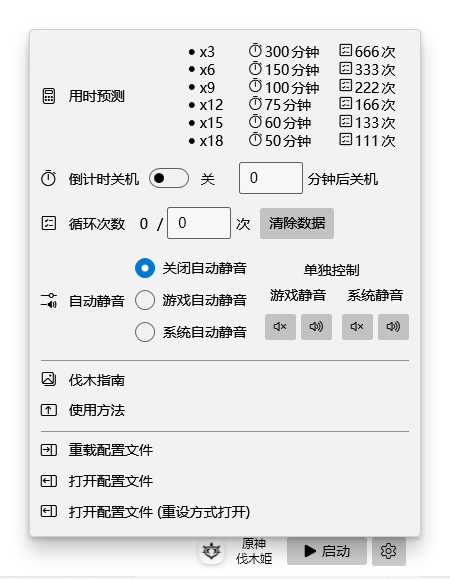
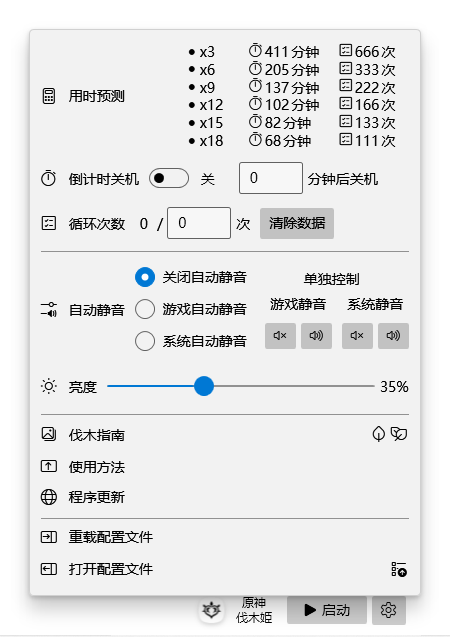
Optimized UI layout

diff --git a/src/GenshinWoodmen/Views/MainWindow.xaml b/src/GenshinWoodmen/Views/MainWindow.xaml
@@ -38,16 +38,23 @@
         </Style>
     </Window.Style>
     <Window.ContextMenu>
-        <ContextMenu Padding="0,5" MinWidth="140">
-            <MenuItem Header="{DynamicResource WoodGuide1}" Command="{Binding UsageImageSingleCommand}">
+        <ContextMenu Padding="0,5" MinWidth="160">
+            <MenuItem Command="{Binding UsageImageCommand}">
                 <MenuItem.Icon>
                     <TextBlock Text="&#xe8b9;" FontSize="8" FontFamily="{StaticResource SegoeFluent}"/>
                 </MenuItem.Icon>
-            </MenuItem>
-            <MenuItem Header="{DynamicResource WoodGuide2}" Command="{Binding UsageImageMultiCommand}">
-                <MenuItem.Icon>
-                    <TextBlock Text="&#xe8b9;" FontSize="8" FontFamily="{StaticResource SegoeFluent}"/>
-                </MenuItem.Icon>
+                <MenuItem.Header>
+                    <Grid>
+                        <Grid.ColumnDefinitions>
+                            <ColumnDefinition Width="*"/>
+                            <ColumnDefinition Width="auto"/>
+                            <ColumnDefinition Width="auto"/>
+                        </Grid.ColumnDefinitions>
+                        <TextBlock Grid.Column="0" Text="{DynamicResource WoodGuide}" VerticalAlignment="Center"/>
+                        <Button Grid.Column="1" ToolTip="{DynamicResource WoodGuide1}" Background="Transparent" Command="{Binding UsageImageSingleCommand}" Margin="0" FocusVisualStyle="{x:Null}" HorizontalAlignment="Right" Content="&#xe8be;" FontSize="16" Padding="1" FontFamily="{StaticResource SegoeFluent}"/>
+                        <Button Grid.Column="2" ToolTip="{DynamicResource WoodGuide2}" Background="Transparent" Command="{Binding UsageImageMultiCommand}" Margin="0" FocusVisualStyle="{x:Null}" HorizontalAlignment="Right" Content="&#xec0a;" FontSize="16" Padding="1" FontFamily="{StaticResource SegoeFluent}"/>
+                    </Grid>
+                </MenuItem.Header>
             </MenuItem>
             <MenuItem Header="{DynamicResource Usage}" Command="{Binding UsageCommand}">
                 <MenuItem.ToolTip>
@@ -332,15 +339,22 @@
                                 </MenuItem.Header>
                             </MenuItem>
                             <Separator/>
-                            <MenuItem Header="{DynamicResource WoodGuide1}" Command="{Binding UsageImageSingleCommand}">
+                            <MenuItem Command="{Binding UsageImageCommand}">
                                 <MenuItem.Icon>
                                     <TextBlock Text="&#xe8b9;" FontSize="8" FontFamily="{StaticResource SegoeFluent}"/>
                                 </MenuItem.Icon>
-                            </MenuItem>
-                            <MenuItem Header="{DynamicResource WoodGuide2}" Command="{Binding UsageImageMultiCommand}">
-                                <MenuItem.Icon>
-                                    <TextBlock Text="&#xe8b9;" FontSize="8" FontFamily="{StaticResource SegoeFluent}"/>
-                                </MenuItem.Icon>
+                                <MenuItem.Header>
+                                    <Grid>
+                                        <Grid.ColumnDefinitions>
+                                            <ColumnDefinition Width="*"/>
+                                            <ColumnDefinition Width="auto"/>
+                                            <ColumnDefinition Width="auto"/>
+                                        </Grid.ColumnDefinitions>
+                                        <TextBlock Grid.Column="0" Text="{DynamicResource WoodGuide}" VerticalAlignment="Center"/>
+                                        <Button Grid.Column="1" ToolTip="{DynamicResource WoodGuide1}" Background="Transparent" Command="{Binding UsageImageSingleCommand}" Margin="0" FocusVisualStyle="{x:Null}" HorizontalAlignment="Right" Content="&#xe8be;" FontSize="16" Padding="1" FontFamily="{StaticResource SegoeFluent}"/>
+                                        <Button Grid.Column="2" ToolTip="{DynamicResource WoodGuide2}" Background="Transparent" Command="{Binding UsageImageMultiCommand}" Margin="0" FocusVisualStyle="{x:Null}" HorizontalAlignment="Right" Content="&#xec0a;" FontSize="16" Padding="1" FontFamily="{StaticResource SegoeFluent}"/>
+                                    </Grid>
+                                </MenuItem.Header>
                             </MenuItem>
                             <MenuItem Header="{DynamicResource Usage}" Command="{Binding UsageCommand}">
                                 <MenuItem.ToolTip>
@@ -368,25 +382,21 @@
                                     <TextBlock Text="&#xe89f;" FontSize="8" FontFamily="{StaticResource SegoeFluent}"/>
                                 </MenuItem.Icon>
                             </MenuItem>
-                            <MenuItem Header="{DynamicResource OpenConfigFile}" Command="{Binding ConfigOpenCommand}">
-                                <MenuItem.ToolTip>
-                                    <TextBlock>
-                                        <Run Text="{DynamicResource OpenConfigFileDetail}"/>
-                                    </TextBlock>
-                                </MenuItem.ToolTip>
+                            <MenuItem Command="{Binding ConfigOpenCommand}" ToolTip="{DynamicResource OpenConfigFileDetail}">
                                 <MenuItem.Icon>
                                     <TextBlock Text="&#xe8a0;" FontSize="8" FontFamily="{StaticResource SegoeFluent}"/>
                                 </MenuItem.Icon>
-                            </MenuItem>
-                            <MenuItem Header="{DynamicResource OpenWithConfigFile}" Command="{Binding ConfigOpenWithCommand}">
-                                <MenuItem.ToolTip>
-                                    <TextBlock>
-                                        <Run Text="{DynamicResource OpenConfigFileDetail}"/>
-                                    </TextBlock>
-                                </MenuItem.ToolTip>
-                                <MenuItem.Icon>
-                                    <TextBlock Text="&#xe8a0;" FontSize="8" FontFamily="{StaticResource SegoeFluent}"/>
-                                </MenuItem.Icon>
+                                <MenuItem.Header>
+                                    <Grid>
+                                        <Grid.ColumnDefinitions>
+                                            <ColumnDefinition Width="*"/>
+                                            <ColumnDefinition Width="auto"/>
+                                            <ColumnDefinition Width="auto"/>
+                                        </Grid.ColumnDefinitions>
+                                        <TextBlock Grid.Column="0" Text="{DynamicResource OpenConfigFile}" VerticalAlignment="Center"/>
+                                        <Button Grid.Column="1" ToolTip="{DynamicResource OpenWithConfigFile}" Background="Transparent" Command="{Binding ConfigOpenWithCommand}" Margin="0" FocusVisualStyle="{x:Null}" HorizontalAlignment="Right" Content="&#xe7ac;" FontSize="16" Padding="1" FontFamily="{StaticResource SegoeFluent}"/>
+                                    </Grid>
+                                </MenuItem.Header>
                             </MenuItem>
                         </ContextMenu>
                     </Button.ContextMenu>

diff --git a/src/GenshinWoodmen/Resources/Languages/jp.xaml b/src/GenshinWoodmen/Resources/Languages/jp.xaml
@@ -7,9 +7,10 @@
     <s:String x:Key="ButtonStop">ｽﾄｯﾌﾟ</s:String>
     <s:String x:Key="ButtonOK">OK</s:String>
     <s:String x:Key="Usage">使い方</s:String>
-    <s:String x:Key="UsageMessage" xml:space="preserve">〔アナウンスメント〕&#10;本プログラムはオープンソース且つネットワークを使いません。もし正常にキーボードなどのシミュレーションが出来ない場合は、本プログラムをアンチウィルスソフトにホワイトリストに追加し、もしくはアンチウィルスソフトを終了後にお使いください。&#10;&#10;〔ステップ〕&#10;1. 原神を起動；&#10;2. ゲーム内の解像度設定を1440x900に変更；&#10;3. 手動的に伐採ポイントに移動、「伐採ガイド」にはお勧めポイントが描かれている；&#10;3. 「王樹の加護」Zキー便利アイテムを装備、このアイテムはスメールでの評判レベル３で獲得できる；&#10;5. 「スタート」をクリックして始まる、もう一度「ストップ」をクリックしたら停止する（デフォルトキーF11）。&#10;&#10;〔テクニック〕&#10;バーバラのソロパーティーを使うことと音声をミュートすること。スタックしてもバーバラの通常攻撃はキャラの位置を変えることはない、ミュートはよりスムーズなリロードが確保できる。&#10;&#10;〔その他の説明〕&#10;種類毎に木材の一日の獲得上限は2000アイテムまで、自動電源オフもしくはループ回数機能を使用することをお勧めする、またあなたのデバイス反応速度に応じて遅延パラメタを調整できる。</s:String>
+    <s:String x:Key="UsageMessage" xml:space="preserve">〔アナウンスメント〕&#10;本プログラムはオープンソース且つネットワークを使いません。もし正常にキーボードなどのシミュレーションが出来ない場合は、本プログラムをアンチウィルスソフトにホワイトリストに追加し、もしくはアンチウィルスソフトを終了後にお使いください。&#10;&#10;〔ステップ〕&#10;1. 原神を起動；&#10;2. 手動的に伐採ポイントに移動、「伐採ガイド」にはお勧めポイントが描かれている；&#10;3. 「王樹の加護」Zキー便利アイテムを装備、このアイテムはスメールでの評判レベル３で獲得できる；&#10;4. 「スタート」をクリックして始まる、もう一度「ストップ」をクリックしたら停止する（デフォルトキーF11）。&#10;&#10;〔テクニック〕&#10;バーバラのソロパーティーを使うことと音声をミュートすること。スタックしてもバーバラの通常攻撃はキャラの位置を変えることはない、ミュートはよりスムーズなリロードが確保できる。&#10;&#10;〔その他の説明〕&#10;種類毎に木材の一日の獲得上限は2000アイテムまで、自動電源オフもしくはループ回数機能を使用することをお勧めする、またあなたのデバイス反応速度に応じて遅延パラメタを調整できる。</s:String>
     <s:String x:Key="TopMost">最上位に表示</s:String>
     <s:String x:Key="Exit">終了</s:String>
+    <s:String x:Key="WoodGuide">伐採ガイド</s:String>
     <s:String x:Key="WoodGuide1">伐採ガイド (お薦めのシングル穴場)</s:String>
     <s:String x:Key="WoodGuide2">伐採ガイド (お薦めのコンビ穴場)</s:String>
     <s:String x:Key="OpenConfigFile">配置ファイルを開く</s:String>
@@ -46,7 +47,7 @@
     <s:String x:Key="MuteGame">ゲーム</s:String>
     <s:String x:Key="MuteSystem">システム</s:String>
     <s:String x:Key="SingleControl">制御パネル</s:String>
-    <s:String x:Key="LaunchGame1440x900">ケーム起動 (1440x900)</s:String>
+    <s:String x:Key="LaunchGame">ケーム起動</s:String>
     <s:String x:Key="Language">言語</s:String>
     <s:String x:Key="Brightness">明度</s:String>
     <s:String x:Key="Cancel">キャンセル</s:String>

diff --git a/src/GenshinWoodmen/App.xaml b/src/GenshinWoodmen/App.xaml
@@ -31,18 +31,30 @@
                     <vm:NotifyIconViewModel/>
                 </tb:TaskbarIcon.DataContext>
                 <tb:TaskbarIcon.ContextMenu>
-                    <ContextMenu Padding="0,5" MinWidth="140">
-                        <MenuItem Header="{DynamicResource WoodGuide1}" Command="{Binding UsageImageSingleCommand}">
+                    <ContextMenu Padding="0,5" MinWidth="160">
+                        <MenuItem Command="{Binding UsageImageCommand}">
                             <MenuItem.Icon>
                                 <TextBlock Text="&#xe8b9;" FontSize="8" FontFamily="{StaticResource SegoeFluent}"/>
                             </MenuItem.Icon>
-                        </MenuItem>
-                        <MenuItem Header="{DynamicResource WoodGuide2}" Command="{Binding UsageImageMultiCommand}">
-                            <MenuItem.Icon>
-                                <TextBlock Text="&#xe8b9;" FontSize="8" FontFamily="{StaticResource SegoeFluent}"/>
-                            </MenuItem.Icon>
+                            <MenuItem.Header>
+                                <Grid>
+                                    <Grid.ColumnDefinitions>
+                                        <ColumnDefinition Width="*"/>
+                                        <ColumnDefinition Width="auto"/>
+                                        <ColumnDefinition Width="auto"/>
+                                    </Grid.ColumnDefinitions>
+                                    <TextBlock Grid.Column="0" Text="{DynamicResource WoodGuide}" VerticalAlignment="Center"/>
+                                    <Button Grid.Column="1" ToolTip="{DynamicResource WoodGuide1}" Background="Transparent" Command="{Binding UsageImageSingleCommand}" Margin="0" FocusVisualStyle="{x:Null}" HorizontalAlignment="Right" Content="&#xe8be;" FontSize="16" Padding="1" FontFamily="{StaticResource SegoeFluent}"/>
+                                    <Button Grid.Column="2" ToolTip="{DynamicResource WoodGuide2}" Background="Transparent" Command="{Binding UsageImageMultiCommand}" Margin="0" FocusVisualStyle="{x:Null}" HorizontalAlignment="Right" Content="&#xec0a;" FontSize="16" Padding="1" FontFamily="{StaticResource SegoeFluent}"/>
+                                </Grid>
+                            </MenuItem.Header>
                         </MenuItem>
                         <MenuItem Header="{DynamicResource Usage}" Command="{Binding UsageCommand}">
+                            <MenuItem.ToolTip>
+                                <TextBlock>
+                        <Run Text="{DynamicResource UsageDetail}"/>
+                                </TextBlock>
+                            </MenuItem.ToolTip>
                             <MenuItem.Icon>
                                 <TextBlock Text="&#xf71c;" FontSize="8" FontFamily="{StaticResource SegoeFluent}"/>
                             </MenuItem.Icon>
@@ -53,7 +65,7 @@
                             </MenuItem.Icon>
                         </MenuItem>
                         <Separator/>
-                        <MenuItem Header="{DynamicResource LaunchGame1440x900}" Command="{Binding LaunchGame1440x900Command}">
+                        <MenuItem Header="{DynamicResource LaunchGame}" Command="{Binding LaunchGameCommand}">
                             <MenuItem.Icon>
                                 <TextBlock Text="&#xe7fc;" FontSize="8" FontFamily="{StaticResource SegoeFluent}"/>
                             </MenuItem.Icon>

diff --git a/src/GenshinWoodmen/Resources/Languages/en-us.xaml b/src/GenshinWoodmen/Resources/Languages/en-us.xaml
@@ -7,9 +7,10 @@
     <s:String x:Key="ButtonStop">Stop</s:String>
     <s:String x:Key="ButtonOK">OK</s:String>
     <s:String x:Key="Usage">Usage</s:String>
-    <s:String x:Key="UsageMessage" xml:space="preserve">[Announcement]&#10;This program is open source and running without network. If you can't auto simulate the key, please try to add this program to the anti-virus software white list, or turn off anti-virus software firstly.&#10;&#10;[Steps]&#10;1. Startup Genshin Impact;&#10;2. Change game resolution to 1440x900;&#10;3. Goto the wood point, recommended from "Wood Guide".&#10;4. Ready your Key Z gadget, named "The Boon of the Elder Tree", got from Sumeru City Reputation Level 3;&#10;5. Click "Start", and you can click again to "Stop" (default shortcut key is F11);&#10;&#10;[Techniques]&#10;To use Barbara Solo party and mute. Barbara's normal attack will not move character's location, even if there is stuck. Mute can stabilize the loading speed.&#10;&#10;[Others]&#10;The max number of each kind of wood is 2000 per day. It's recommended to use the function of auto shutdown or auto stop when the specified number of times is reached. You can adjust the delay parameters according to the response speed of your own equipment.</s:String>
+    <s:String x:Key="UsageMessage" xml:space="preserve">[Announcement]&#10;This program is open source and running without network. If you can't auto simulate the key, please try to add this program to the anti-virus software white list, or turn off anti-virus software firstly.&#10;&#10;[Steps]&#10;1. Startup Genshin Impact;&#10;2. Goto the wood point, recommended from "Wood Guide".&#10;3. Ready your Key Z gadget, named "The Boon of the Elder Tree", obtained from Sumeru City Reputation Level 3;&#10;4. Click "Start", and you can click again to "Stop" (default shortcut key is F11);&#10;&#10;[Techniques]&#10;To use Barbara Solo party and mute. Barbara's normal attack will not move character's location, even if there is stuck. Mute can stabilize the loading speed.&#10;&#10;[Others]&#10;The max number of each kind of wood is 2000 per day. It's recommended to use the function of auto shutdown or auto stop when the specified number of times is reached. You can adjust the delay parameters according to the response speed of your own equipment.</s:String>
     <s:String x:Key="TopMost">Top Most</s:String>
     <s:String x:Key="Exit">Exit</s:String>
+    <s:String x:Key="WoodGuide">Wood Guide</s:String>
     <s:String x:Key="WoodGuide1">Wood Guide (Recommended Single Point)</s:String>
     <s:String x:Key="WoodGuide2">Wood Guide (Recommended Multi Point)</s:String>
     <s:String x:Key="OpenConfigFile">Open Config File</s:String>
@@ -46,7 +47,7 @@
     <s:String x:Key="MuteGame">Mute Game</s:String>
     <s:String x:Key="MuteSystem">Mute System</s:String>
     <s:String x:Key="SingleControl">Control Panel</s:String>
-    <s:String x:Key="LaunchGame1440x900">Launch Game (1440x900)</s:String>
+    <s:String x:Key="LaunchGame">Launch Game</s:String>
     <s:String x:Key="Language">Language</s:String>
     <s:String x:Key="Brightness">Brightness</s:String>
     <s:String x:Key="Cancel">Cancel</s:String>

diff --git a/src/GenshinWoodmen/Resources/Languages/zh-cn.xaml b/src/GenshinWoodmen/Resources/Languages/zh-cn.xaml
@@ -7,9 +7,10 @@
     <s:String x:Key="ButtonStop">停止</s:String>
     <s:String x:Key="ButtonOK">好的</s:String>
     <s:String x:Key="Usage">使用方法</s:String>
-    <s:String x:Key="UsageMessage" xml:space="preserve">【声明】&#10;本程序开源且不联网。如果无法正常自动模拟按键，请尝试将本程序添加至杀软白名单，或关闭杀软后使用。&#10;&#10;&#10;【操作步骤】&#10;1. 启动原神；&#10;2. 游戏设置里调整分辨率为1440x900；&#10;3. 手动走到伐木点，可点击菜单栏[伐木指南]参考伐木点；&#10;4. 装备好「王树瑞佑」Z键小道具，这是须弥3级声望赠送道具；&#10;5. 点击启动开始挂机，再次点击可停止（默认快捷键F11）；&#10;&#10;&#10;【小技巧】&#10;可以使用芭芭拉单人队，并且关闭游戏声音。芭芭拉平A不会位移，就算出现卡顿也不会移动导致错位，关闭声音稳定加载速度。&#10;&#10;&#10;【其他说明】&#10;每日每种木材的获取上限为2000个，建议使用自动关机或达到指定次数自动停止功能。可根据自己设备响应速度自己调整延时参数。</s:String>
+    <s:String x:Key="UsageMessage" xml:space="preserve">【声明】&#10;本程序开源且不联网。如果无法正常自动模拟按键，请尝试将本程序添加至杀软白名单，或关闭杀软后使用。&#10;&#10;&#10;【操作步骤】&#10;1. 启动原神；&#10;2. 手动走到伐木点，可点击菜单栏[伐木指南]参考伐木点；&#10;3. 装备好「王树瑞佑」Z键小道具，这是须弥3级声望赠送道具；&#10;4. 点击启动开始挂机，再次点击可停止（默认快捷键F11）；&#10;&#10;&#10;【小技巧】&#10;可以使用芭芭拉单人队，并且关闭游戏声音。芭芭拉平A不会位移，就算出现卡顿也不会移动导致错位，关闭声音稳定加载速度。&#10;&#10;&#10;【其他说明】&#10;每日每种木材的获取上限为2000个，建议使用自动关机或达到指定次数自动停止功能。可根据自己设备响应速度自己调整延时参数。</s:String>
     <s:String x:Key="TopMost">顶层显示</s:String>
     <s:String x:Key="Exit">退出</s:String>
+    <s:String x:Key="WoodGuide">伐木指南</s:String>
     <s:String x:Key="WoodGuide1">伐木指南 (单点推荐)</s:String>
     <s:String x:Key="WoodGuide2">伐木指南 (组合推荐)</s:String>
     <s:String x:Key="OpenConfigFile">打开配置文件</s:String>
@@ -46,7 +47,7 @@
     <s:String x:Key="MuteGame">游戏静音</s:String>
     <s:String x:Key="MuteSystem">系统静音</s:String>
     <s:String x:Key="SingleControl">单独控制</s:String>
-    <s:String x:Key="LaunchGame1440x900">启动游戏 (1440x900)</s:String>
+    <s:String x:Key="LaunchGame">启动游戏</s:String>
     <s:String x:Key="Language">语言</s:String>
     <s:String x:Key="Brightness">亮度</s:String>
     <s:String x:Key="Cancel">取消</s:String>

diff --git a/src/GenshinWoodmen/Core/LaunchCtrl.cs b/src/GenshinWoodmen/Core/LaunchCtrl.cs
@@ -150,9 +150,9 @@ namespace GenshinWoodmen.Core
 
         internal class LaunchParameter
         {
-            public bool? IsFullScreen { get; set; } = false;
-            public int? ScreenWidth { get; set; } = 1440;
-            public int? ScreenHeight { get; set; } = 900;
+            public bool? IsFullScreen { get; set; } = null;
+            public int? ScreenWidth { get; set; } = null;
+            public int? ScreenHeight { get; set; } = null;
 
             public override string ToString()
             {
@@ -160,15 +160,15 @@ namespace GenshinWoodmen.Core
 
                 if (IsFullScreen != null)
                 {
-                    sb.Append("-screen-fullscreen").Append(" ").Append(IsFullScreen.Value ? 1 : 0);
+                    sb.Append("-screen-fullscreen").Append(' ').Append(IsFullScreen.Value ? 1 : 0);
                 }
                 if (ScreenWidth != null)
                 {
-                    sb.Append("-screen-width").Append(" ").Append(ScreenWidth);
+                    sb.Append("-screen-width").Append(' ').Append(ScreenWidth);
                 }
                 if (ScreenHeight != null)
                 {
-                    sb.Append("-screen-height").Append(" ").Append(ScreenHeight);
+                    sb.Append("-screen-height").Append(' ').Append(ScreenHeight);
                 }
                 return sb.ToString();
             }

diff --git a/src/GenshinWoodmen/ViewModels/NotifyIconViewModel.cs b/src/GenshinWoodmen/ViewModels/NotifyIconViewModel.cs
@@ -30,6 +30,7 @@ namespace GenshinWoodmen.ViewModels
         public static ICommand RestartCommand => new RelayCommand(() => App.RestartAsElevated());
         public static ICommand ExitCommand => new RelayCommand(() => Application.Current.Shutdown());
 
+        public static ICommand UsageImageCommand => new RelayCommand(() => _ = UsageManager.ShowUsageImage(UsageImageType.Normal));
         public static ICommand UsageImageSingleCommand => new RelayCommand(() => _ = UsageManager.ShowUsageImage(UsageImageType.Single));
         public static ICommand UsageImageMultiCommand => new RelayCommand(() => _ = UsageManager.ShowUsageImage(UsageImageType.Multi));
         public static ICommand UsageCommand => new RelayCommand(() => _ = UsageManager.ShowUsage());
@@ -45,7 +46,7 @@ namespace GenshinWoodmen.ViewModels
             }
         });
 
-        public static ICommand LaunchGame1440x900Command => new RelayCommand<Window>(async app => _ = await LaunchCtrl.Launch());
+        public static ICommand LaunchGameCommand => new RelayCommand<Window>(async app => _ = await LaunchCtrl.Launch());
 
         public string Language
         {

diff --git a/src/GenshinWoodmen/ViewModels/MainViewModel.cs b/src/GenshinWoodmen/ViewModels/MainViewModel.cs
@@ -197,6 +197,7 @@ namespace GenshinWoodmen.ViewModels
         public ICommand RestartCommand => NotifyIconViewModel.RestartCommand;
         public ICommand ExitCommand => NotifyIconViewModel.ExitCommand;
         public ICommand UsageCommand => NotifyIconViewModel.UsageCommand;
+        public ICommand UsageImageCommand => NotifyIconViewModel.UsageImageCommand;
         public ICommand UsageImageSingleCommand => NotifyIconViewModel.UsageImageSingleCommand;
         public ICommand UsageImageMultiCommand => NotifyIconViewModel.UsageImageMultiCommand;
         public ICommand GitHubCommand => NotifyIconViewModel.GitHubCommand;

diff --git a/README.jp.md b/README.jp.md
@@ -29,7 +29,6 @@
 
 ## FAQs
 
-1. メインスクリーンのセンターポイントのみでの原神ウィンド位置がサポートされる、また1440x900以外の解像度は今サポートしてない。
-3. もしセットアップがインストールできない場合は、システムにアプリストアが実装されているかどうかをご確認ください。セットアップはアプリストアに依存している (MSIX)。
-4. 実行環境はnet6.0-windows10.0.18362.0。
+1. もしセットアップがインストールできない場合は、システムにアプリストアが実装されているかどうかをご確認ください。セットアップはアプリストアに依存している (MSIX)。
+2. 実行環境はnet6.0-windows10.0.18362.0。
 

diff --git a/README.md b/README.md
@@ -25,7 +25,6 @@ This is an automatic tool to obtain woods in Genshin Impact using gadget named "
 
 ## FAQs
 
-1. Only supported for Genshin Impact running in center of primary screen, and resolutions other than 1440x900 are not supported temporarily.
-3. When the setup can't be installed. Please ensure that your system has installed the App Store. The setup depends on the store architecture (MSIX).
-4. Runtime environment is net6.0-windows10.0.18362.0.
+1. When the setup can't be installed. Please ensure that your system has installed the App Store. The setup depends on the store architecture (MSIX).
+2. Runtime environment is net6.0-windows10.0.18362.0.
 

diff --git a/README.zh.md b/README.zh.md
@@ -27,6 +27,5 @@
 
 ## 常见问题
 
-1. 仅支持原神运行于主屏幕中心，暂不支持1440x900以外的分辨率。
-4. 若安装包无法安装，请确保你的系统已安装应用商店，安装包依赖商店架构 (MSIX)。
-5. 运行环境是net6.0-windows10.0.18362.0。
+1. 若安装包无法安装，请确保你的系统已安装应用商店，安装包依赖商店架构 (MSIX)。
+2. 运行环境是net6.0-windows10.0.18362.0。
